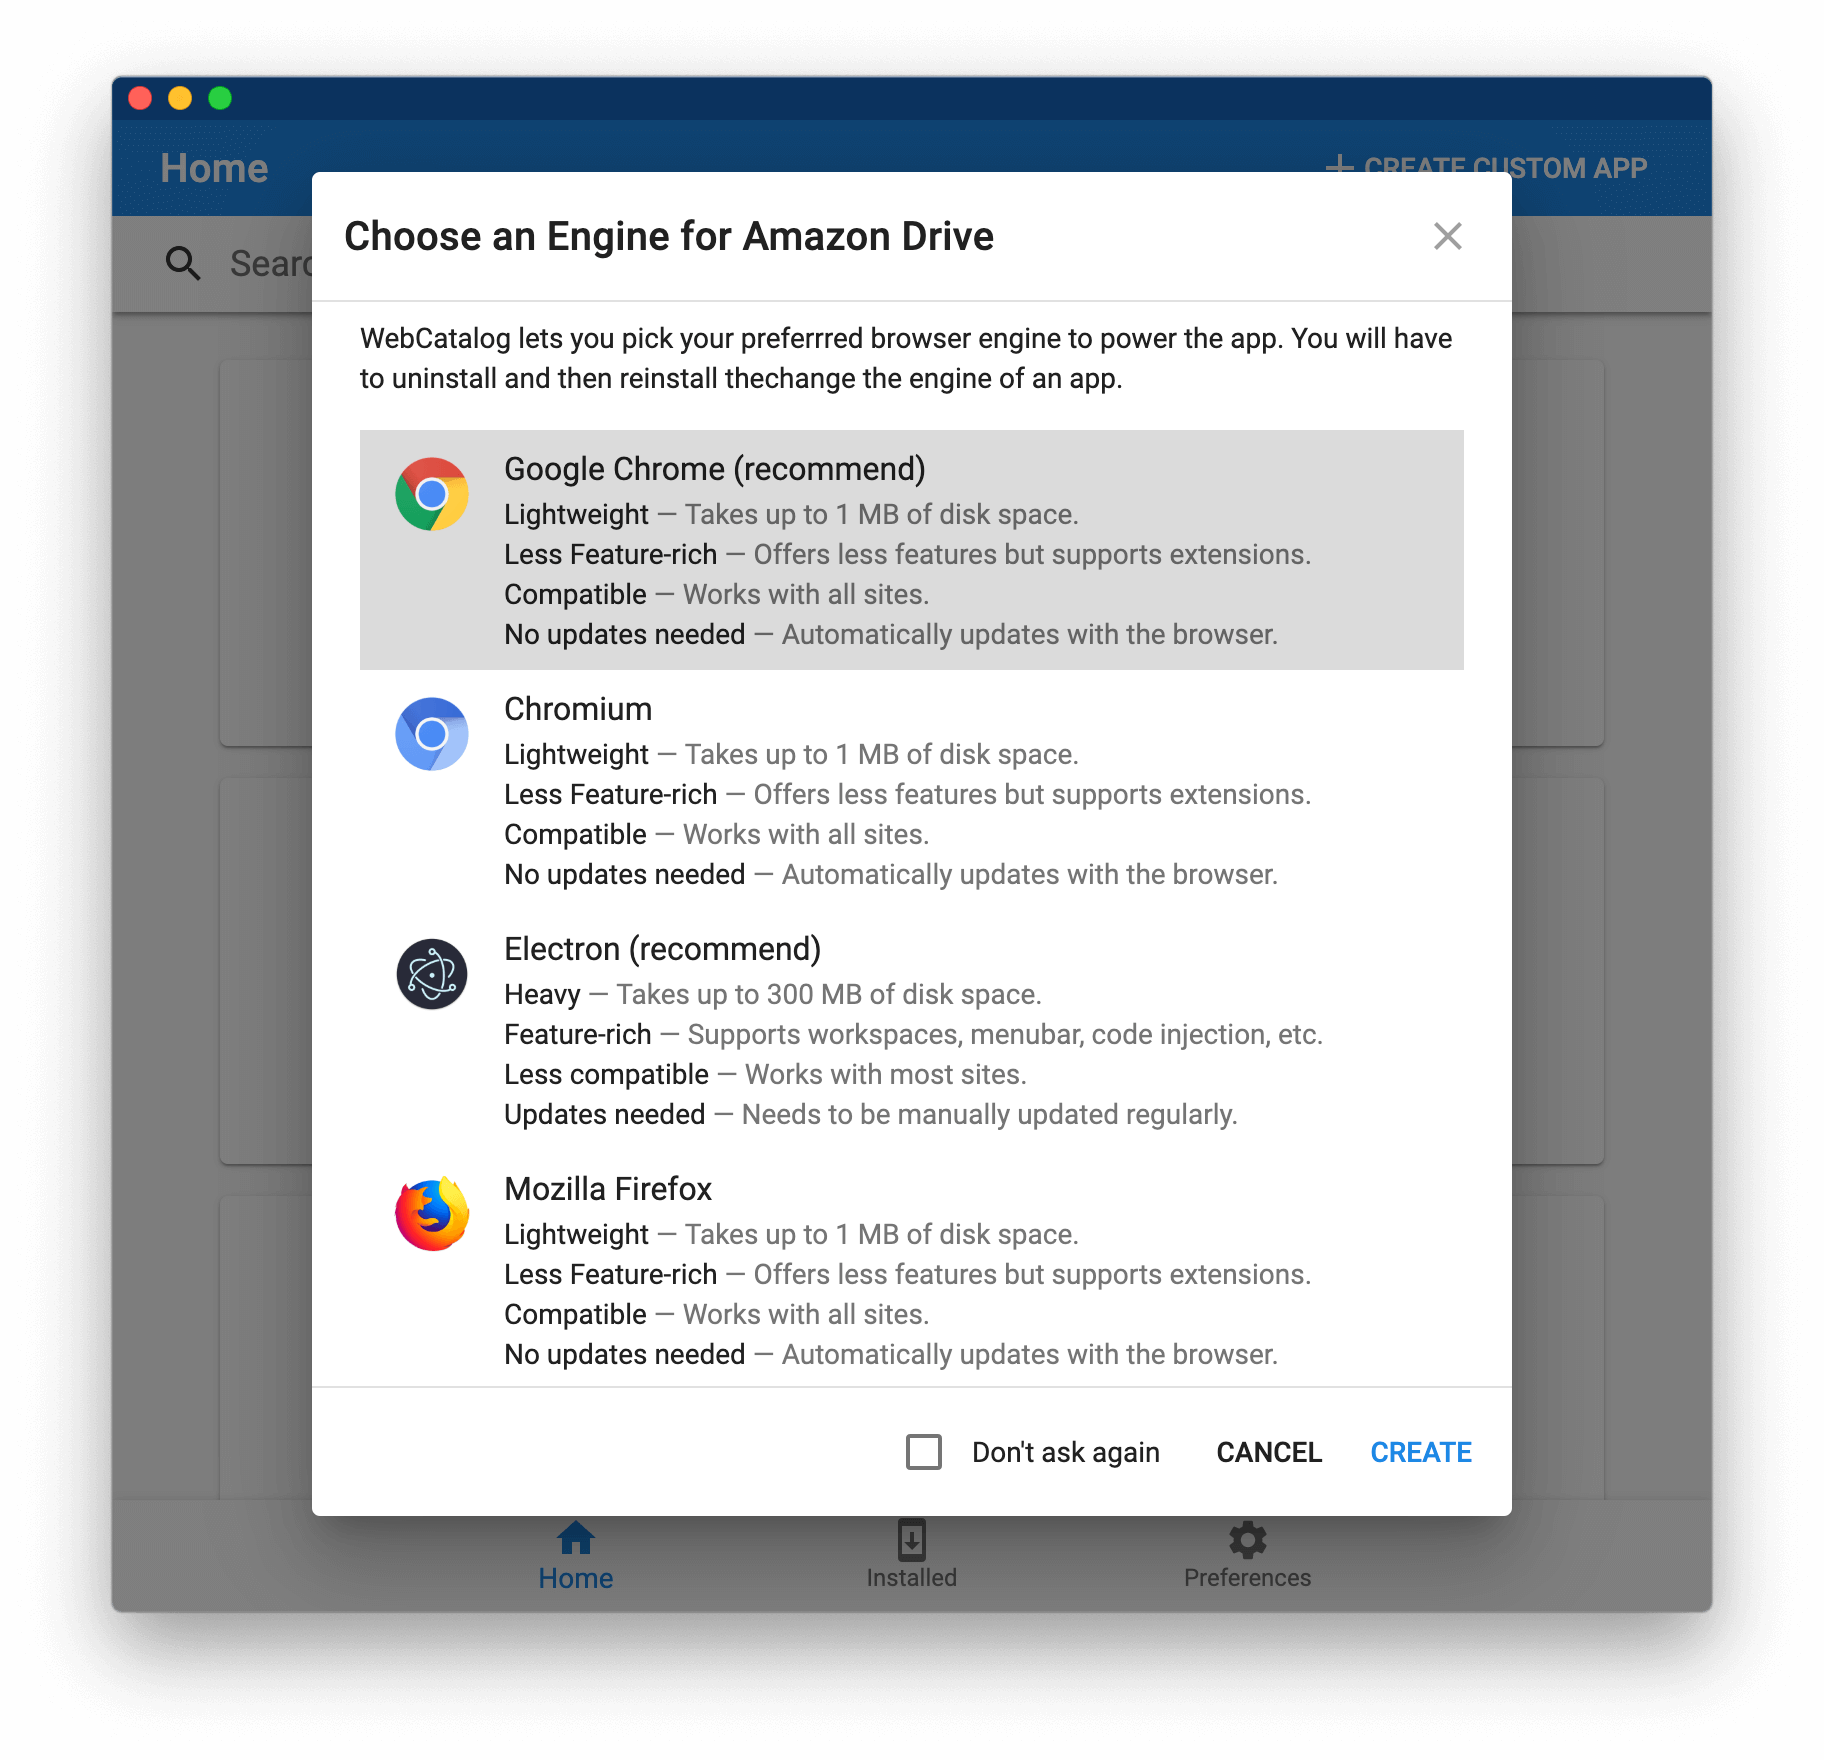
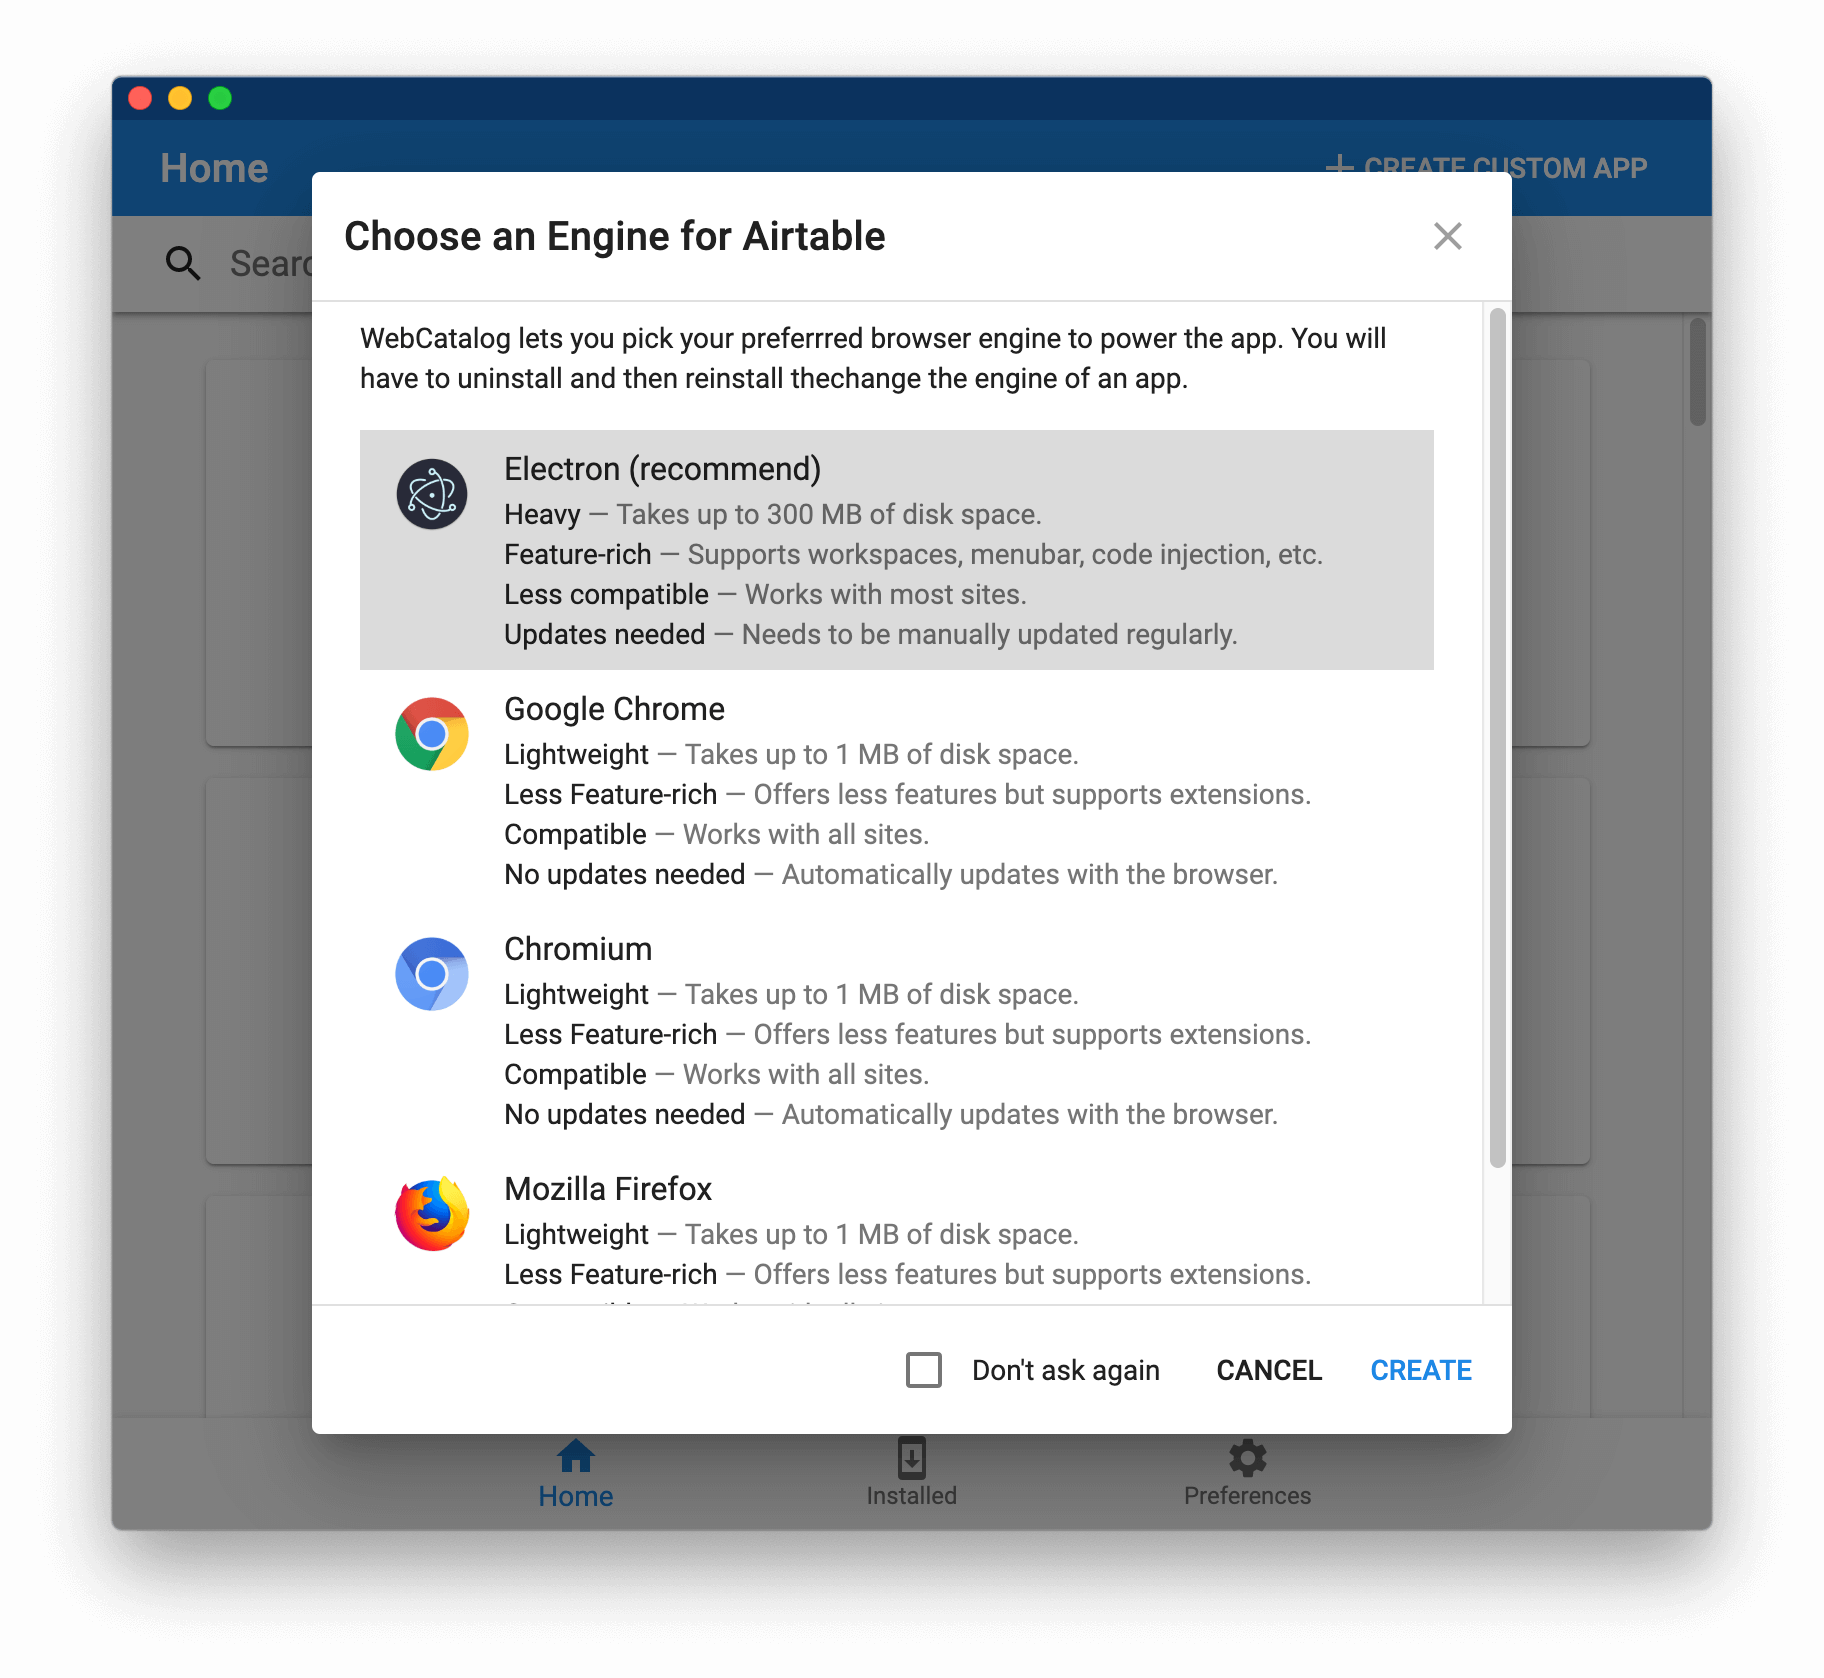
Set Electron as recommended browser engine

diff --git a/src/components/dialogs/dialog-choose-engine.js b/src/components/dialogs/dialog-choose-engine.js
@@ -81,6 +81,42 @@ const DialogChooseEngine = (props) => {
           <ListItem
             alignItems="flex-start"
             button
+            onClick={() => onUpdateForm({ engine: 'electron' })}
+            selected={engine === 'electron'}
+          >
+            <ListItemAvatar>
+              <Avatar alt="Electron" src={electronIcon} />
+            </ListItemAvatar>
+            <ListItemText
+              primary="Electron (recommended)"
+              secondary={(
+                <>
+                  <Typography component="span" className={classes.inline} color="textPrimary">
+                    Heavy
+                  </Typography>
+                  {' — Takes up to 300 MB of disk space.'}
+                  <br />
+                  <Typography component="span" className={classes.inline} color="textPrimary">
+                    Feature-rich
+                  </Typography>
+                  {' — Supports workspaces, menubar, code injection, etc.'}
+                  <br />
+                  <Typography component="span" className={classes.inline} color="textPrimary">
+                    Less compatible
+                  </Typography>
+                  {' — Works with most sites.'}
+                  <br />
+                  <Typography component="span" className={classes.inline} color="textPrimary">
+                    Updates needed
+                  </Typography>
+                  {' — Needs to be manually updated regularly.'}
+                </>
+              )}
+            />
+          </ListItem>
+          <ListItem
+            alignItems="flex-start"
+            button
             onClick={() => onUpdateForm({ engine: 'chrome' })}
             selected={engine === 'chrome'}
           >
@@ -88,7 +124,7 @@ const DialogChooseEngine = (props) => {
               <Avatar alt="Google Chrome" src={chromeIcon} />
             </ListItemAvatar>
             <ListItemText
-              primary="Google Chrome (recommend)"
+              primary="Google Chrome"
               secondary={(
                 <>
                   <Typography component="span" className={classes.inline} color="textPrimary">
@@ -146,42 +182,6 @@ const DialogChooseEngine = (props) => {
                     No updates needed
                   </Typography>
                   {' — Automatically updates with the browser.'}
-                </>
-              )}
-            />
-          </ListItem>
-          <ListItem
-            alignItems="flex-start"
-            button
-            onClick={() => onUpdateForm({ engine: 'electron' })}
-            selected={engine === 'electron'}
-          >
-            <ListItemAvatar>
-              <Avatar alt="Electron" src={electronIcon} />
-            </ListItemAvatar>
-            <ListItemText
-              primary="Electron (recommend)"
-              secondary={(
-                <>
-                  <Typography component="span" className={classes.inline} color="textPrimary">
-                    Heavy
-                  </Typography>
-                  {' — Takes up to 300 MB of disk space.'}
-                  <br />
-                  <Typography component="span" className={classes.inline} color="textPrimary">
-                    Feature-rich
-                  </Typography>
-                  {' — Supports workspaces, menubar, code injection, etc.'}
-                  <br />
-                  <Typography component="span" className={classes.inline} color="textPrimary">
-                    Less compatible
-                  </Typography>
-                  {' — Works with most sites.'}
-                  <br />
-                  <Typography component="span" className={classes.inline} color="textPrimary">
-                    Updates needed
-                  </Typography>
-                  {' — Needs to be manually updated regularly.'}
                 </>
               )}
             />

diff --git a/docs/support.html b/docs/support.html
@@ -48,7 +48,7 @@ title: Support
       <h3>Frequently Asked Questions (FAQs) </h3>
       <p><b>Does WebCatalog support Linux and Windows?</b><br/>From version 16 and later, we no longer support WebCatalog for Windows and Linux due to low usage. You can still download and install previous versions of the app on Windows and Linux from <a href="/legacy">here</a>.</p>
       <p><b>Where can I download previous versions of WebCatalog?</b><br/>Even though WebCatalog 15 and older is no longer officially supported, you can still download it from <a href="/legacy">here</a>.</p>
-      <p><b>Does WebCatalog support Amazon Music, Amazon Prime Video, BBC iPlayer, Hulu, Netflix and Spotify?</b><br/>No, it doesn't. We would love to support these apps. But they rely on a technology call <a href="https://en.wikipedia.org/wiki/Widevine">WidevineDRM</a> which is not available in WebCatalog because of technical and legal constraints <a href="https://electronjs.org/docs/tutorial/testing-widevine-cdm">[1]</a> <a href="https://www.theregister.co.uk/2019/04/03/googles_widevine_drm/">[2]</a>.</p>
+      <p><b>Does WebCatalog support Amazon Music, Amazon Prime Video, BBC iPlayer, Hulu, Netflix and Spotify?</b><br/>Yes, it does, but only with non-Electron browser engines. We would love to support these apps with Electron. But they rely on a technology call <a href="https://en.wikipedia.org/wiki/Widevine">WidevineDRM</a> which is not available in WebCatalog because of technical and legal constraints <a href="https://electronjs.org/docs/tutorial/testing-widevine-cdm">[1]</a> <a href="https://www.theregister.co.uk/2019/04/03/googles_widevine_drm/">[2]</a>.</p>
     </div>
   </div>
 </section>

diff --git a/src/components/pages/preferences/index.js b/src/components/pages/preferences/index.js
@@ -139,9 +139,9 @@ const Preferences = ({
                   </ListItem>
                 )}
               >
-                <MenuItem onClick={() => requestSetPreference('preferredEngine', 'chrome')}>Google Chrome (recommend)</MenuItem>
+                <MenuItem onClick={() => requestSetPreference('preferredEngine', 'electron')}>Electron (recommended)</MenuItem>
+                <MenuItem onClick={() => requestSetPreference('preferredEngine', 'chrome')}>Google Chrome</MenuItem>
                 <MenuItem onClick={() => requestSetPreference('preferredEngine', 'chromium')}>Chromium</MenuItem>
-                <MenuItem onClick={() => requestSetPreference('preferredEngine', 'electron')}>Electron (recommend)</MenuItem>
                 <MenuItem onClick={() => requestSetPreference('preferredEngine', 'firefox')}>Mozilla Firefox</MenuItem>
               </StatedMenu>
               <Divider />

diff --git a/public/libs/preferences.js b/public/libs/preferences.js
@@ -1,7 +1,6 @@
 const settings = require('electron-settings');
 
 const sendToAllWindows = require('./send-to-all-windows');
-const isEngineInstalled = require('./is-engine-installed');
 
 // scope
 const v = '2018';
@@ -13,16 +12,9 @@ const getDefaultInstallationPath = () => {
   throw Error('Unsupported platform');
 };
 
-const getPreferredEngine = () => {
-  if (isEngineInstalled('chrome')) {
-    return 'chrome';
-  }
-  return 'electron';
-};
-
 const defaultPreferences = {
   installationPath: getDefaultInstallationPath(),
-  preferredEngine: getPreferredEngine(),
+  preferredEngine: 'electron',
   registered: false,
   requireAdmin: false,
   hideEnginePrompt: false,
